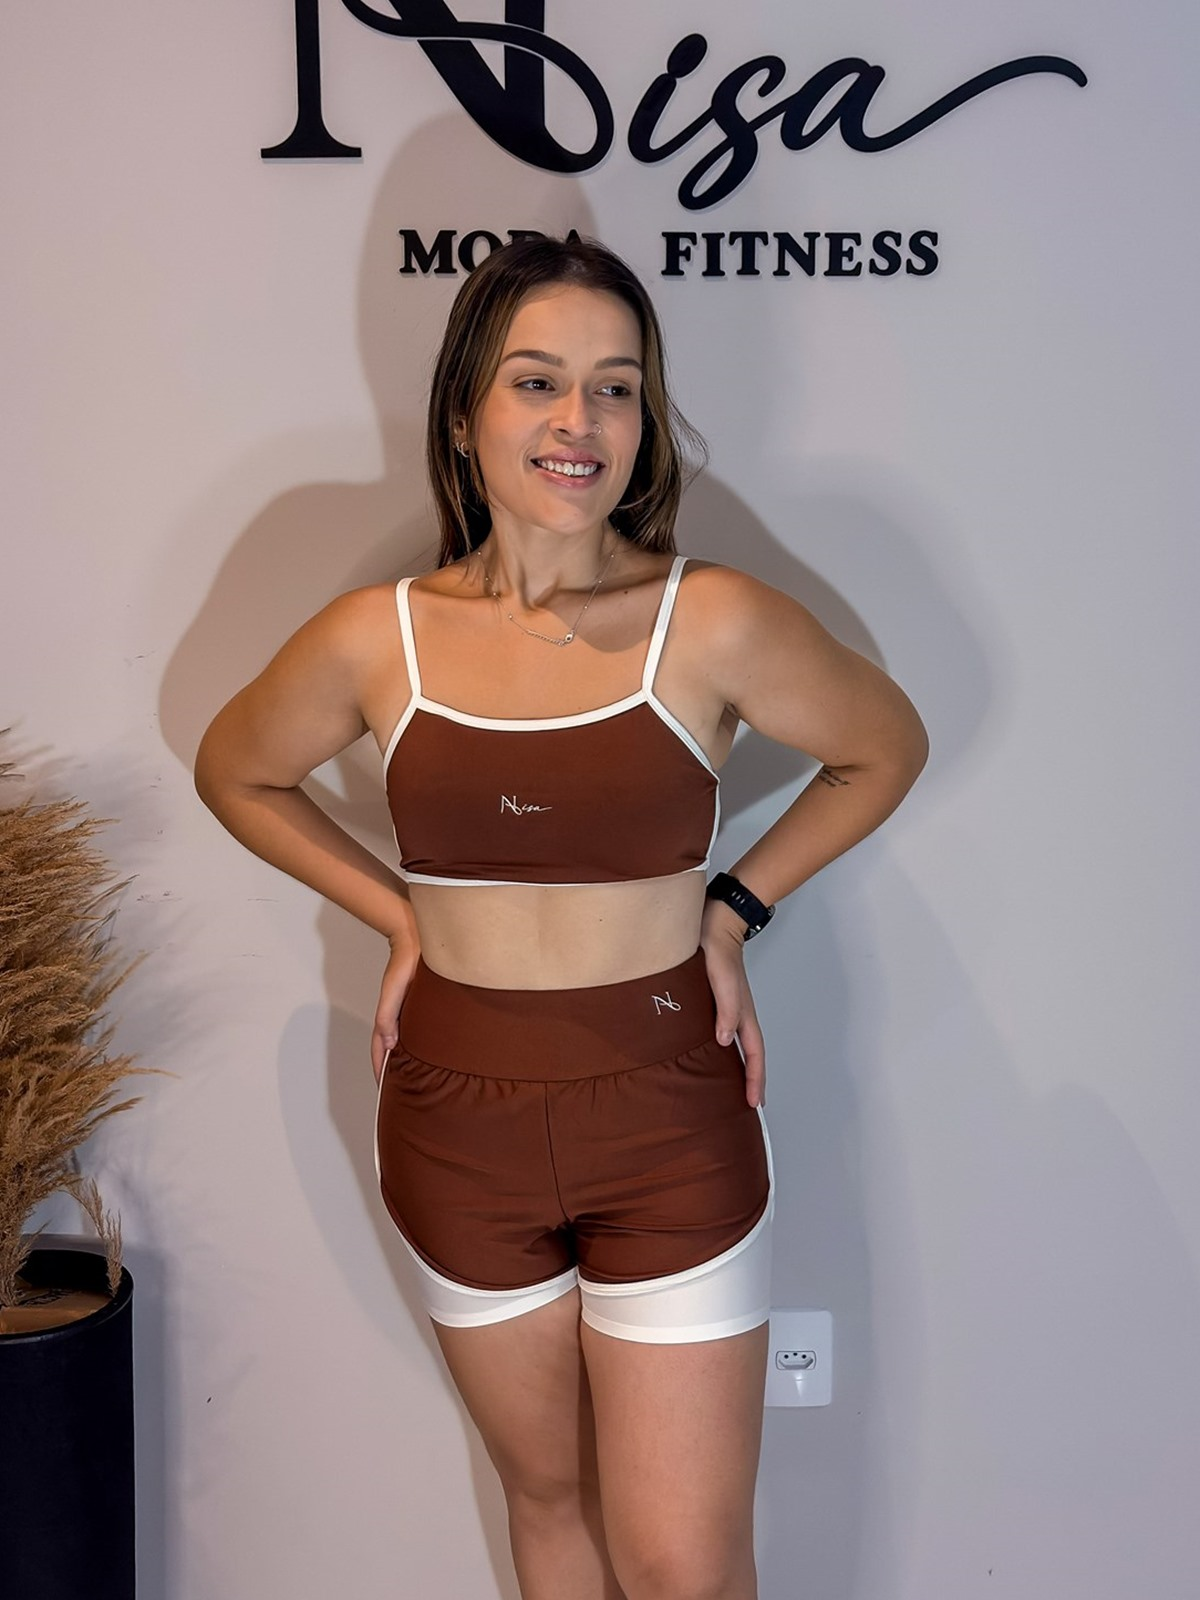
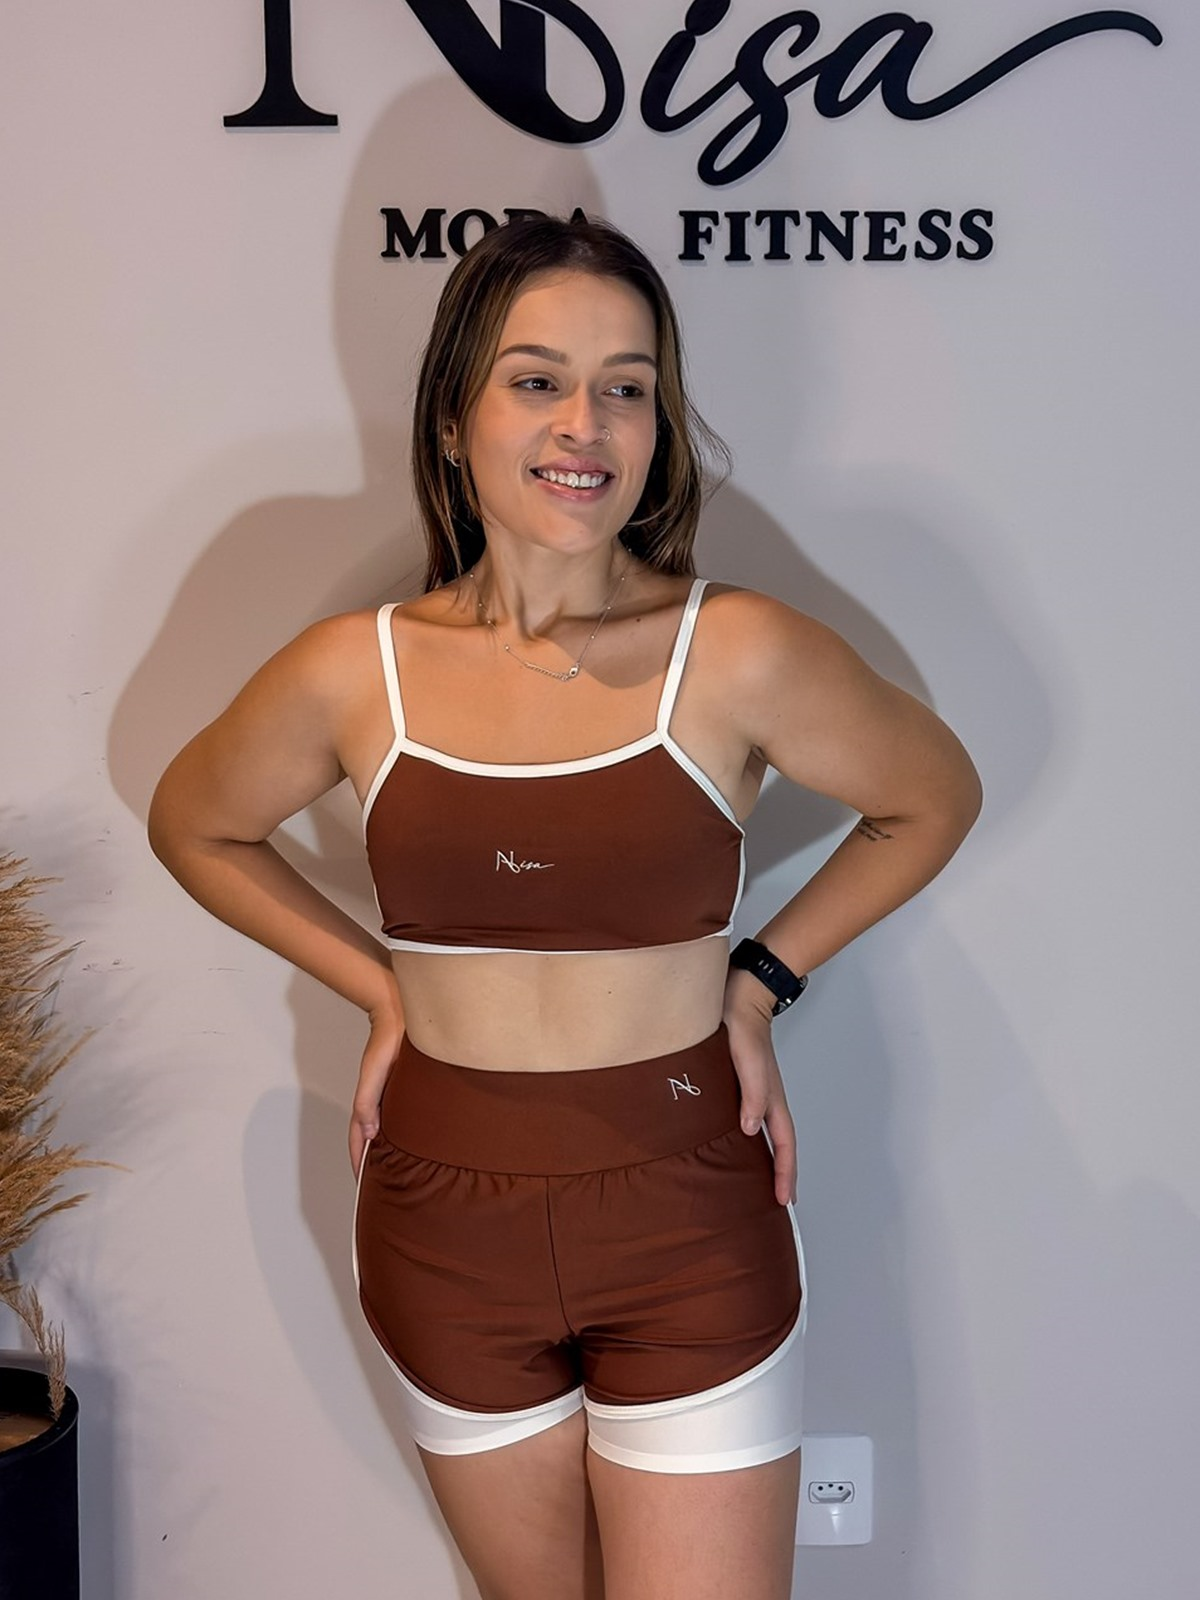
feat(hero): equalize face scale +12% on left model and add swipeable 1-photo carousel on mobile

diff --git a/styles.css b/styles.css
@@ -299,8 +299,12 @@ ul {
     width: 100%;
     display: grid;
     grid-template-columns: 1fr 1fr;
-    gap: 6px;
+    gap: 7px;
     background-color: var(--bg-sec);
+}
+
+.hero-carousel-dots {
+    display: none;
 }
 
 .hero-image-wrapper {
@@ -1238,7 +1242,50 @@ ul {
     .hero-right {
         max-width: 100%;
         width: 100%;
-        min-height: 420px;
+        min-height: auto;
+        flex-direction: column;
+    }
+    .hero-editorial-grid {
+        display: flex;
+        overflow-x: auto;
+        scroll-snap-type: x mandatory;
+        scroll-behavior: smooth;
+        gap: 0;
+        -webkit-overflow-scrolling: touch;
+        scrollbar-width: none;
+    }
+    .hero-editorial-grid::-webkit-scrollbar {
+        display: none;
+    }
+    .hero-image-wrapper {
+        flex: 0 0 100%;
+        width: 100%;
+        max-height: none;
+        aspect-ratio: 3 / 4;
+        scroll-snap-align: start;
+    }
+    .hero-carousel-dots {
+        display: flex;
+        justify-content: center;
+        align-items: center;
+        gap: 0.55rem;
+        padding: 0.85rem 0;
+        background-color: var(--bg-sec);
+    }
+    .hero-dot {
+        width: 8px;
+        height: 8px;
+        border-radius: 50%;
+        border: none;
+        background-color: rgba(23, 23, 23, 0.25);
+        cursor: pointer;
+        padding: 0;
+        transition: all 0.25s ease;
+    }
+    .hero-dot.active {
+        width: 22px;
+        border-radius: 99px;
+        background-color: var(--text-main);
     }
     .diferenciais {
         flex-direction: column;

diff --git a/script.js b/script.js
@@ -797,4 +797,25 @@ document.addEventListener('DOMContentLoaded', () => {
 
         showToast(`Pedido de ${customerName} (${formatCurrency(total)}) pronto! Assim que definir o WhatsApp da loja, ativaremos o envio direto.`);
     });
+
+    // Carrossel de arrastar da Capa no Celular (1 foto vertical por vez)
+    const heroGrid = document.getElementById('hero-editorial-grid');
+    const heroDots = document.querySelectorAll('#hero-carousel-dots .hero-dot');
+    if (heroGrid && heroDots.length > 0) {
+        heroGrid.addEventListener('scroll', () => {
+            const slideWidth = heroGrid.clientWidth;
+            if (slideWidth <= 0) return;
+            const activeIdx = Math.round(heroGrid.scrollLeft / slideWidth);
+            heroDots.forEach((dot, idx) => {
+                dot.classList.toggle('active', idx === activeIdx);
+            });
+        }, { passive: true });
+
+        heroDots.forEach((dot, idx) => {
+            dot.addEventListener('click', () => {
+                const slideWidth = heroGrid.clientWidth;
+                heroGrid.scrollTo({ left: slideWidth * idx, behavior: 'smooth' });
+            });
+        });
+    }
 });

diff --git a/index.html b/index.html
@@ -69,13 +69,17 @@
             </div>
             
             <div class="hero-right">
-                <div class="hero-editorial-grid">
+                <div class="hero-editorial-grid" id="hero-editorial-grid">
                     <div class="hero-image-wrapper">
                         <img src="img/hero-esq.jpg" alt="Modelo vestindo Conjunto Corrida Nisa" class="hero-img">
                     </div>
                     <div class="hero-image-wrapper">
                         <img src="img/hero-dir.jpg" alt="Modelo vestindo Macaquinho Duo Nisa" class="hero-img">
                     </div>
+                </div>
+                <div class="hero-carousel-dots" id="hero-carousel-dots" aria-label="Navegação de fotos da capa">
+                    <button type="button" class="hero-dot active" data-slide="0" aria-label="Foto 1"></button>
+                    <button type="button" class="hero-dot" data-slide="1" aria-label="Foto 2"></button>
                 </div>
             </div>
         </section>
